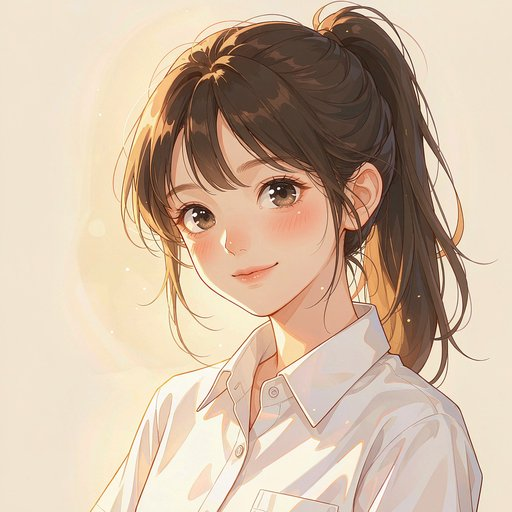
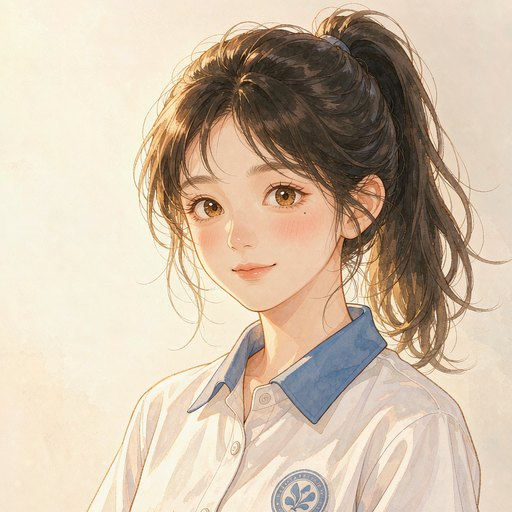
叶序改散布点亮（固定种子洗牌，新芽散布全冠→逐密→茂盛，去掉加载带感）；新增抽芽弹入动画；三张肖像重绘为高中生校服版（稚气脸型/蓝领白校服）

diff --git a/css/style.css b/css/style.css
@@ -2700,6 +2700,13 @@ body.reading-page {
   position: absolute;
   background-image: url('../assets/tree/atlas.png');
   background-repeat: no-repeat;
+  transform-origin: center;
+  animation: leafPop 0.5s cubic-bezier(0.34, 1.56, 0.64, 1) both;
+}
+
+@keyframes leafPop {
+  from { transform: scale(0.4); opacity: 0; }
+  to { transform: scale(1); opacity: 1; }
 }
 
 .tree-caption {
